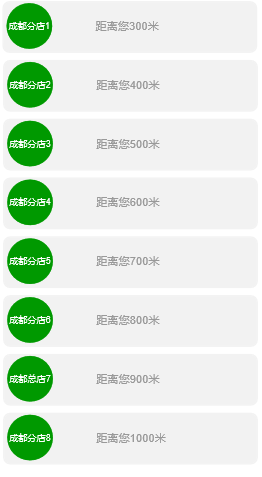
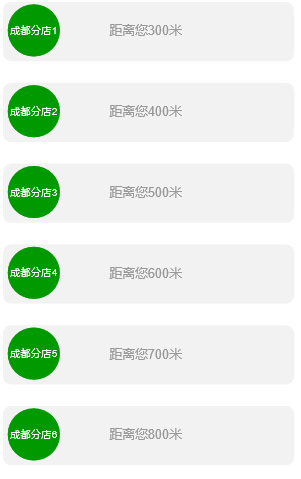
修改图片

diff --git a/examples/new-lacation.html b/examples/new-lacation.html
@@ -23,7 +23,7 @@
 				&nbsp;&nbsp;<a href="./GPSMAP.html" style="position: fixed; top: 13px ;"><p style="font-size:large; color: #FFFFFF;" onclick="opensysmap();">成都</p></a>
 				<h1 class="mui-title" style="color: #FFFFFF;">附近餐厅</h1>
 			</div><br /><br /><br />
-			<img  class="w100" src="../images/店面.png" style="position: fixed; height: 660px;" />
+			<img  class="w100" src="../images/dianmian.png" style="position: fixed; height: 460px;" />
 			
 		<script src="../js/mui.min.js"></script>
 		<script src="../js/jquery.min.js"></script>
